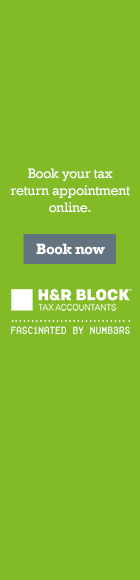
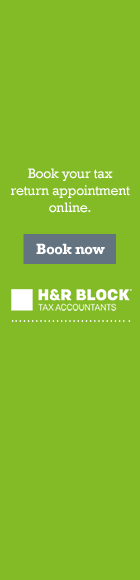
update

Changed region(s): [[0.0571, 0.5586, 0.4857, 0.5897], [0.6286, 0.5586, 0.9429, 0.5897], [0.5143, 0.5586, 0.6, 0.5897]]

diff --git a/RZF/HRBlock/160x600_HR_OPENING_HOURS/index.html b/RZF/HRBlock/160x600_HR_OPENING_HOURS/index.html
@@ -36,15 +36,15 @@
 #animation {
 	position: absolute;
 	width: 122px;
-	height: 10px;
+	height: 13px;
 	top: 325px;
-	left: 10px;
+	left: 13px;
 	z-index: 999;
 }
 .num {
 	position: absolute;
 	width: 6px;
-	height: 9px;
+	height: 8px;
 	opacity: 0;
 }
 .text {
@@ -54,8 +54,8 @@
 	opacity: 0;
 }
 #face11{
-	position: absolute;
 	background: url('frame1.png');
+	position: absolute;
 }
 #face12{
 	background: url('frame2.png');
@@ -170,6 +170,7 @@
 #textF{
 	background: url('f.png');
 	width: 5px;
+	left: 1px;
 }
 #textN_1{
 	background: url('n.png');

diff --git a/RZF/HRBlock/160x600_HR_YOUR_MONEY/index.html b/RZF/HRBlock/160x600_HR_YOUR_MONEY/index.html
@@ -36,15 +36,15 @@
 #animation {
 	position: absolute;
 	width: 122px;
-	height: 10px;
+	height: 13px;
 	top: 325px;
-	left: 10px;
+	left: 13px;
 	z-index: 999;
 }
 .num {
 	position: absolute;
 	width: 6px;
-	height: 9px;
+	height: 8px;
 	opacity: 0;
 }
 .text {
@@ -54,8 +54,8 @@
 	opacity: 0;
 }
 #face11{
-	position: absolute;
 	background: url('frame1.png');
+	position: absolute;
 }
 #face12{
 	background: url('frame2.png');
@@ -170,6 +170,7 @@
 #textF{
 	background: url('f.png');
 	width: 5px;
+	left: 1px;
 }
 #textN_1{
 	background: url('n.png');

diff --git a/RZF/HRBlock/160x600_HR_DIY/index.html b/RZF/HRBlock/160x600_HR_DIY/index.html
@@ -36,15 +36,15 @@
 #animation {
 	position: absolute;
 	width: 122px;
-	height: 10px;
+	height: 13px;
 	top: 325px;
-	left: 10px;
+	left: 13px;
 	z-index: 999;
 }
 .num {
 	position: absolute;
 	width: 6px;
-	height: 9px;
+	height: 8px;
 	opacity: 0;
 }
 .text {
@@ -170,6 +170,7 @@
 #textF{
 	background: url('f.png');
 	width: 5px;
+	left: 1px;
 }
 #textN_1{
 	background: url('n.png');
